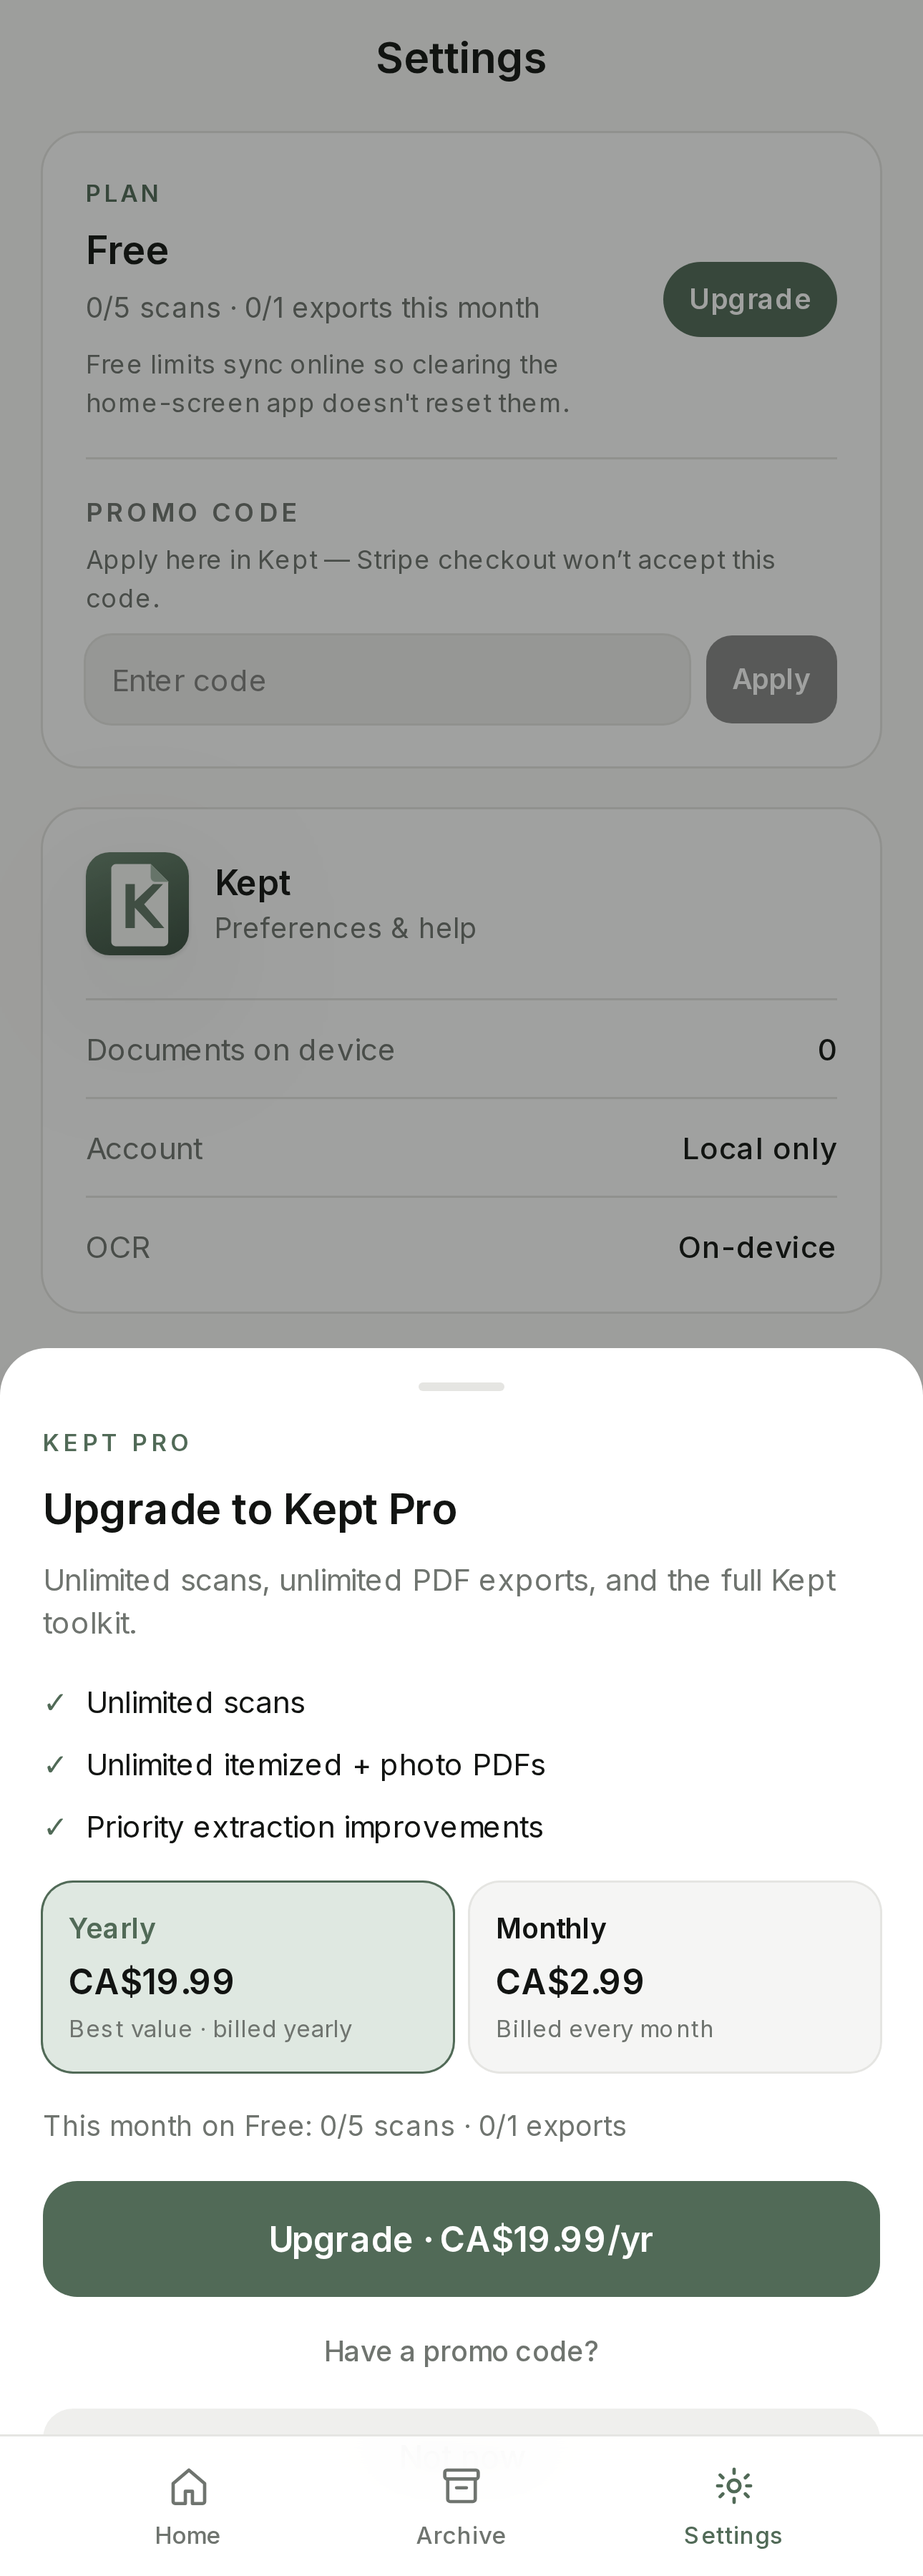
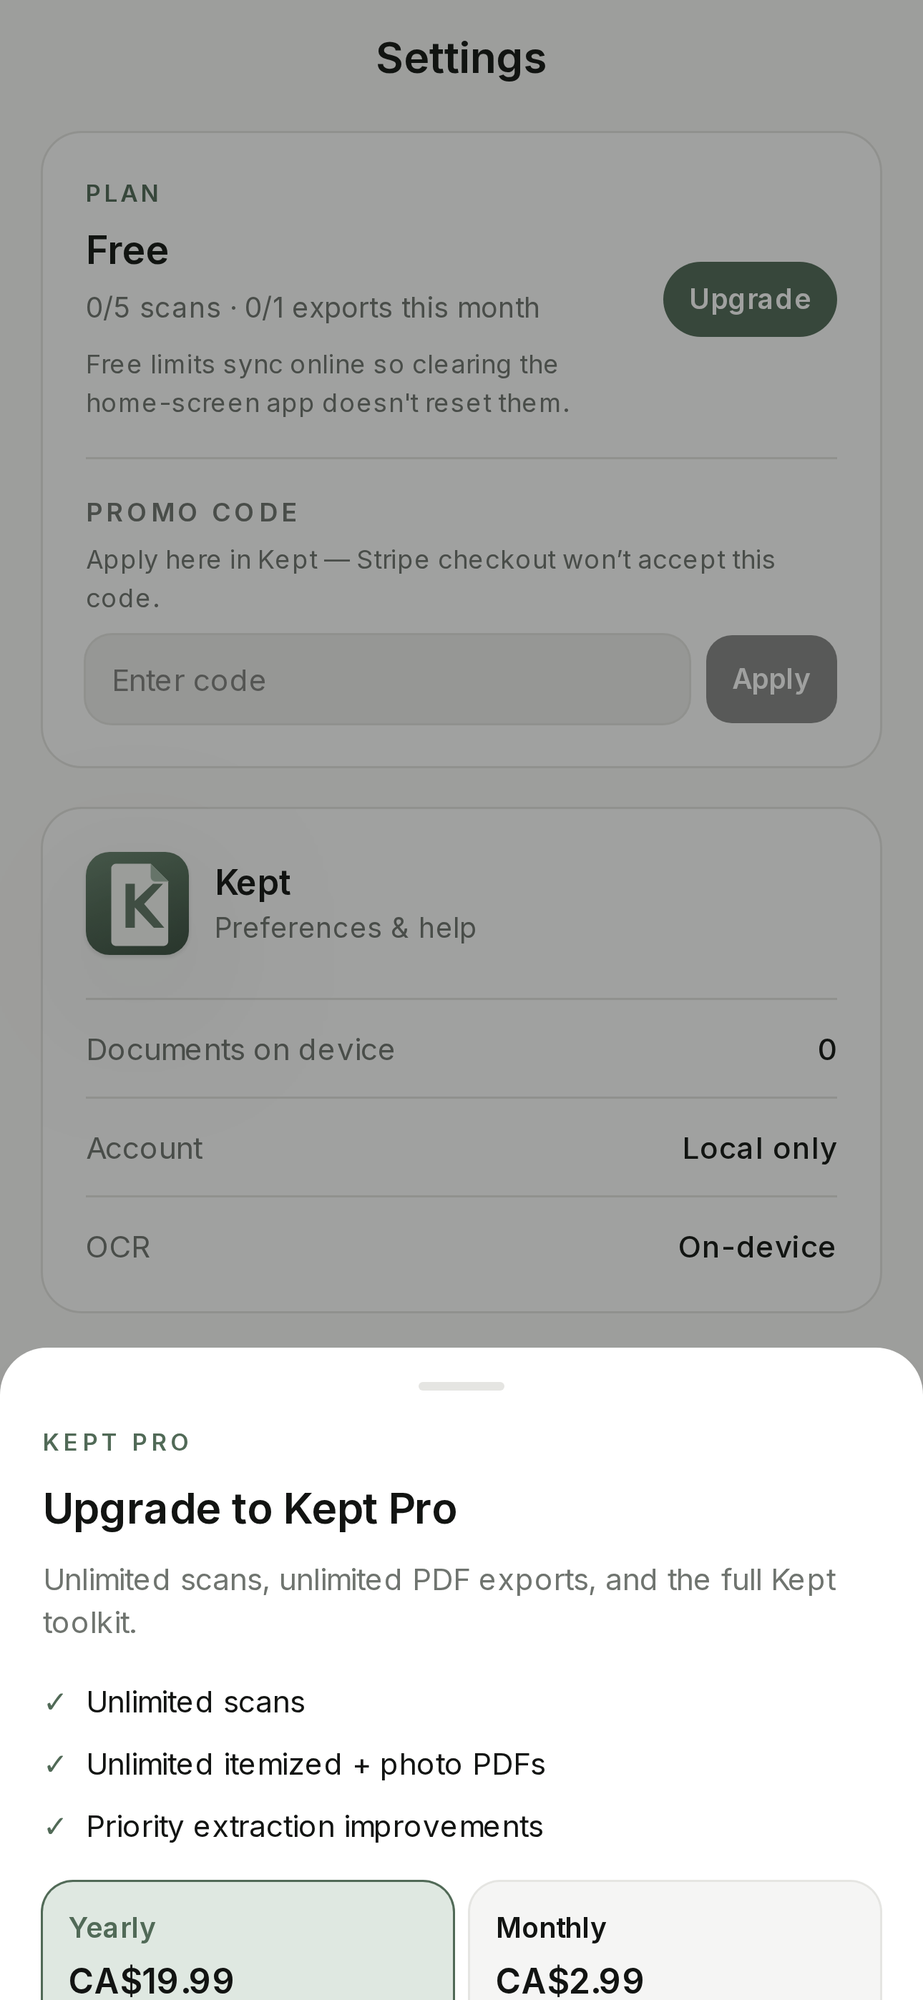
Tighten IAP review screenshot and ship checklist.
Resize the Connect review paywall PNG to 1290×2796, document both
product IDs in SHIP_NOW, and extend ios:iap:verify with Capgo API and
screenshot-size gates.

diff --git a/docs/ios/SHIP_NOW.md b/docs/ios/SHIP_NOW.md
@@ -9,7 +9,7 @@ Status on code/main (already done):
 - Paywall Apple auto-renew disclosure + Restore
 - Capgo Native Purchases + In-App Purchase capability
 - iOS build **5** (Xcode Cloud auto-bumps via `CI_BUILD_NUMBER`) (`CURRENT_PROJECT_VERSION`)
-- Review screenshot: `docs/ios/screenshots/iap-review-paywall.png`
+- Review screenshot: `docs/ios/screenshots/iap-review-paywall.png` (1290×2796)
 
 ## 0) Confirm repo is ready
 
@@ -24,7 +24,14 @@ CI also runs `ios:iap:verify` on pushes/PRs that touch the repo (`Verify IAP rep
 
 ## A) App Store Connect (you)
 
-1. **Monthly** Review Information → upload  
+Product IDs (must match code exactly):
+
+| Product ID | Duration | Price |
+| --- | --- | --- |
+| `ca.keptapp.app.pro.monthly` | 1 Month | CA$2.99 |
+| `ca.keptapp.app.pro.yearly` | 1 Year | CA$19.99 |
+
+1. **Monthly** (`ca.keptapp.app.pro.monthly`) Review Information → upload  
    https://raw.githubusercontent.com/MarshallBuchner/kept/main/docs/ios/screenshots/iap-review-paywall.png  
    Save. Do **not** Add for Review yet.
 2. **‹ Kept Pro** → create **Yearly**  
